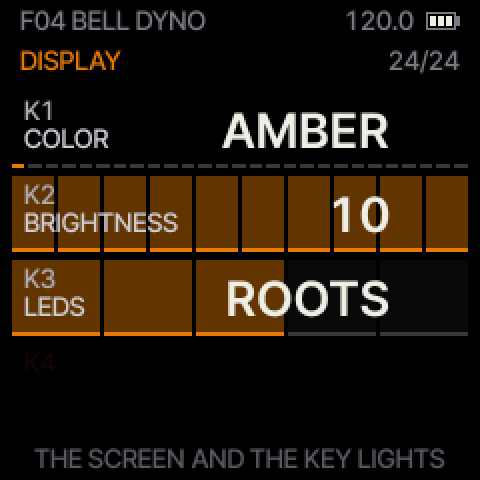
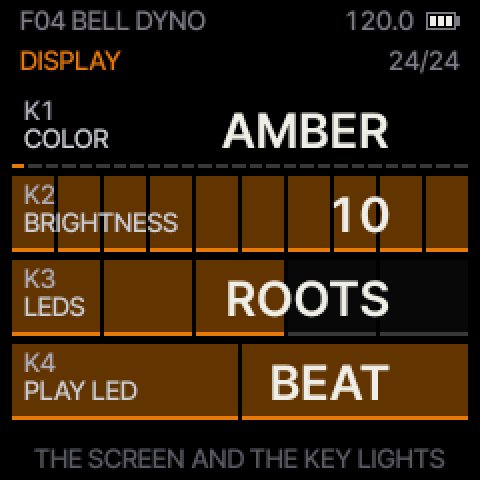
Docs: DISPLAY's PLAY LED card (issue #29)
MANUAL: the DISPLAY table's K4 PLAY LED (BEAT / OFF), "all four" kept with the
settings, and the two places that say PLAY blinks on the beat point at it.
display.png regenerated by tools/manual_shots.py (the only picture that changed;
overview.png unchanged), its ?v= updated. Release-note fragment
docs/changes/play-led.md. SMK37.md and README do not list DISPLAY's cards:
unchanged.

Tested: tools/changes.py, tools/doc_links.py (0 problems), pytest -n 2
test_changes, test_doc_links, test_manual_shots, test_manual_claims,
test_docs_vs_code, test_move_doc (70 passed); web/build.sh builds (not
published). Not tested: the FM-1 (unavailable).

Changed region(s): [[0.0, 0.7188, 1.0, 0.875]]

diff --git a/docs/MANUAL.md b/docs/MANUAL.md
@@ -221,7 +221,8 @@ The lights tell you what is on: LFO (tremolo / wah), ENV (phaser) and SEL (delay
 (on ARPEGGIO, and on every page while the arpeggiator is on, SEL shows HOLD), ARP while the arpeggiator runs, EDIT while chord mode is on, SEQ while the sequencer
 plays (blinking while it records), FX when the effects are
 active, REC while the sustain holds (from MIDI CC 64 too), PLAY on the beat when something is synced (and while the
-sequencer or the arpeggiator plays), HOME on PERFORM and the main page, GLO on TEMPO, SETUP, MIDI and DISPLAY,
+sequencer or the arpeggiator plays; PLAY LED on the DISPLAY page switches it off), HOME on PERFORM and the main page,
+GLO on TEMPO, SETUP, MIDI and DISPLAY,
 OCT− / OCT+ while the octave is shifted, SAVE blinking in save mode, and each key while it is held, or its note is
 held over MIDI (USB or TRS), or the sustain holds it and it still rings (a note let go before the pedal went down
 stays dark; see LEDS on the DISPLAY page).
@@ -670,15 +671,16 @@ the TRS jack: notes, every CC in the table below, program changes, clock, start 
 
 ### DISPLAY
 
-![DISPLAY](manual/img/display.png?v=57c874c7)
+![DISPLAY](manual/img/display.png?v=41d8e044)
 
 | Knob | Card | What it does |
 | --- | --- | --- |
 | K1 | **COLOR** | The screen's colour, 27 steps: **AMBER** (the default), then 25 pastel hues around the colour wheel: PEACH, CORAL, ROSE, PINK, ORCHID, MAUVE, PURPLE, VIOLET, LILAC, IRIS, BLUE, DENIM, SKY, OCEAN, CYAN, AQUA, MINT, JADE, GREEN, LEAF, LIME, PEAR, LEMON, GOLD, MANGO, and last a full **RED**. Every page is drawn in it: the title, the fader fills and edges, the lit selector blocks |
 | K2 | **BRIGHTNESS** | For a dark room: **10** (full) to **1** dims the whole panel together, the screen (its colours and its text alike) and every light, keys and buttons alike (10 is full brightness; below it the keys sit a little under the buttons, and every step changes both). The backlight itself is fixed, so black stays as it is and the screen's contrast falls at the low steps |
 | K3 | **LEDS** | Which keys light: **OFF** none; **PLAYED** a key while its note sounds; **ROOTS** (the default) the played keys, and while a scale is on its root keys glowing faintly as landmarks, never brighter than a played key; **ALL** every key lit, a light for playing in the dark; a key goes dark while its note sounds; **SCALE** as ALL, but only the keys of the scale lit (SCALE page): the keys, white and black, whose own note is in the scale, in SNAP and DEGREE alike; a played scale key goes dark, and the keys outside the scale stay dark even when pressed; with no scale on it looks as ALL |
+| K4 | **PLAY LED** | **BEAT** (the default): PLAY blinks on the beat (synced effects, the arpeggiator, the sequencer, MIDI clock). **OFF**: PLAY's light stays dark, for a dark stage; everything else lights as before (SEQ still blinks while the sequencer records). Turn left for OFF, right for BEAT |
 
-Press **GLO** four times to come here (TEMPO, SETUP, MIDI, DISPLAY). All three are kept with the settings, not with
+Press **GLO** four times to come here (TEMPO, SETUP, MIDI, DISPLAY). All four are kept with the settings, not with
 a preset, so they stay as you set them whatever sound you load.
 
 ## 5. VIBES and MARIMBA: the bar instruments
@@ -959,7 +961,8 @@ delay can each lock to the tempo on the TEMPO page (TREM SYNC, PHA SYNC, DLY SYN
 page. When one is synced, its RATE / SPEED / TIME card shows a note
 value and turning it steps through them: 1/32, 16T, 1/16, 8T, 16D, 1/8, 4T, 8D, 1/4, 4D, 1/2, 1/1, 2 BAR (and 4 BAR
 for the chorus, phaser and the LFO). A synced echo longer than the delay's 1.48 s plays at half (or a quarter) of
-that time. PLAY blinks on the beat while anything is synced.
+that time. PLAY blinks on the beat while anything is synced (unless PLAY LED on the
+[DISPLAY](#display) page is OFF).
 
 MIDI clock in is 24 pulses per beat, from 40 to 240 BPM (a clock outside that range is not followed: the tempo stays
 where it was). With CLOCK on EXT and a clock coming in:

diff --git a/docs/changes/play-led.md b/docs/changes/play-led.md
@@ -1,0 +1,5 @@
+## New
+
+- **PLAY's beat light can be switched off** ([#29](https://github.com/leonardoMirabal/frodhes/issues/29)). The
+  DISPLAY page has a fourth card, PLAY LED: BEAT (the default) blinks PLAY on the beat as before, OFF keeps its
+  light dark. Every other light is unchanged. It is kept with the settings, so it stays off after a power cycle.
